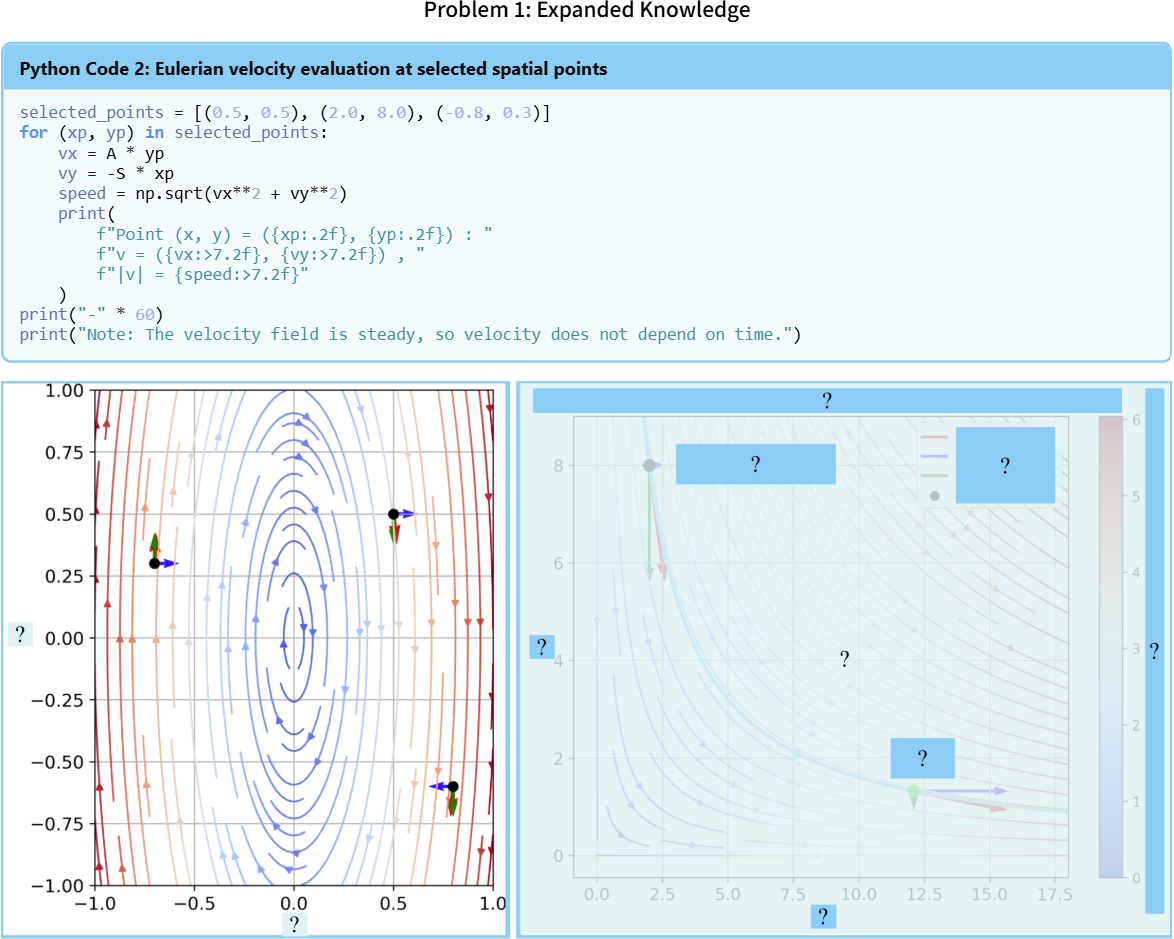
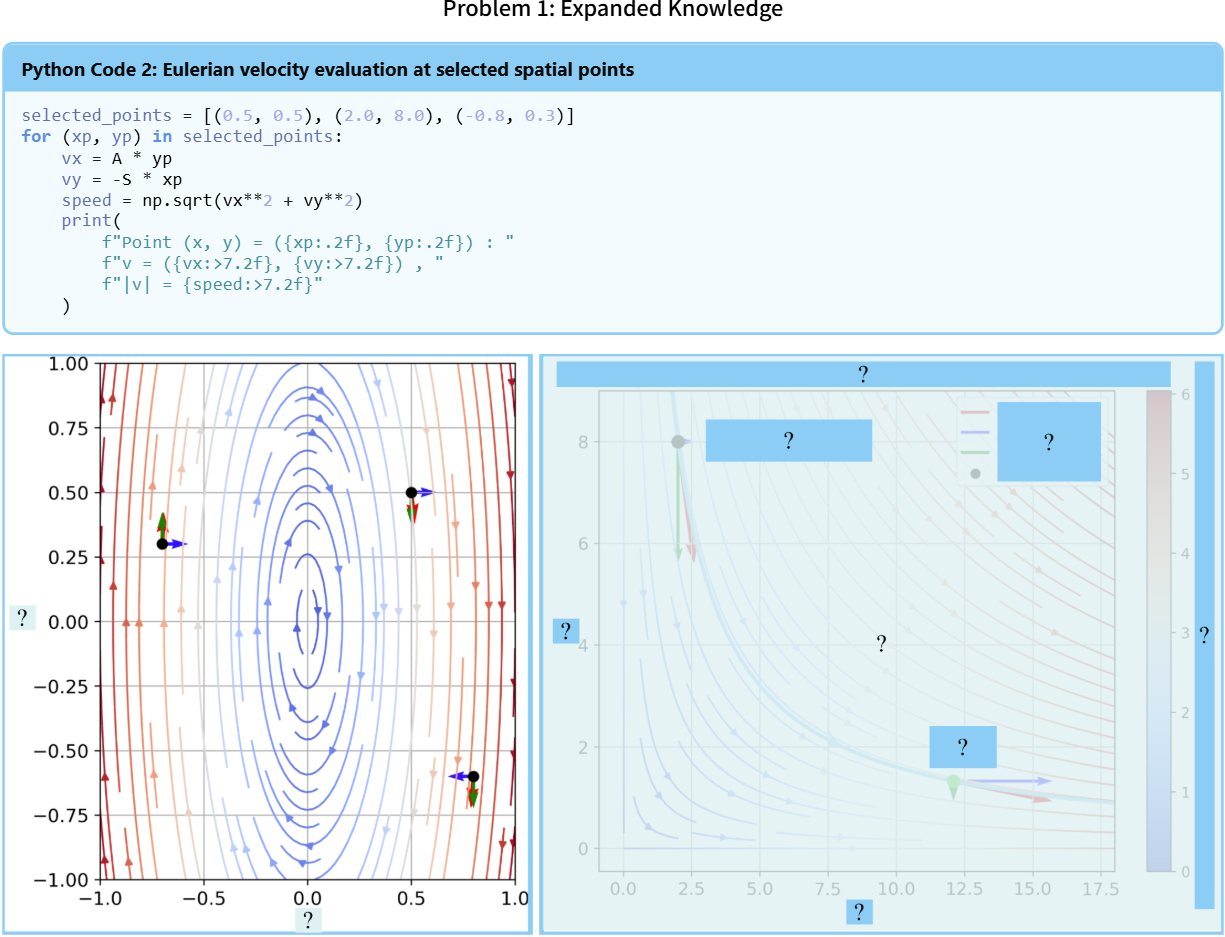
Update

diff --git a/PS1Slide19.html b/PS1Slide19.html
@@ -186,10 +186,7 @@ window.addEventListener('resize', scaleContainer);
         <span class="py-str">f"Point (x, y) = ({xp:.2f}, {yp:.2f}) : "</span>
         <span class="py-str">f"v = ({vx:>7.2f}, {vy:>7.2f}) , "</span>
         <span class="py-str">f"|v| = {speed:>7.2f}"</span>
-    )
-<span class="py-fn">print</span>(<span class="py-str">"-"</span> <span class="py-op">*</span> <span class="py-num">60</span>)
-<span class="py-fn">print</span>(<span class="py-str">"Note: The velocity field is steady, so velocity does not depend on time."</span>)</code></pre>
-  </div>
+    )</div>
 </div>
 <div class="image-container" style="text-align: left;">
 <img src="Figures/PS1_StreamLineUnlock.png" alt="StreamLineUnlock" style="max-width: 100%; height: auto; display: block; margin: auto;">                            
